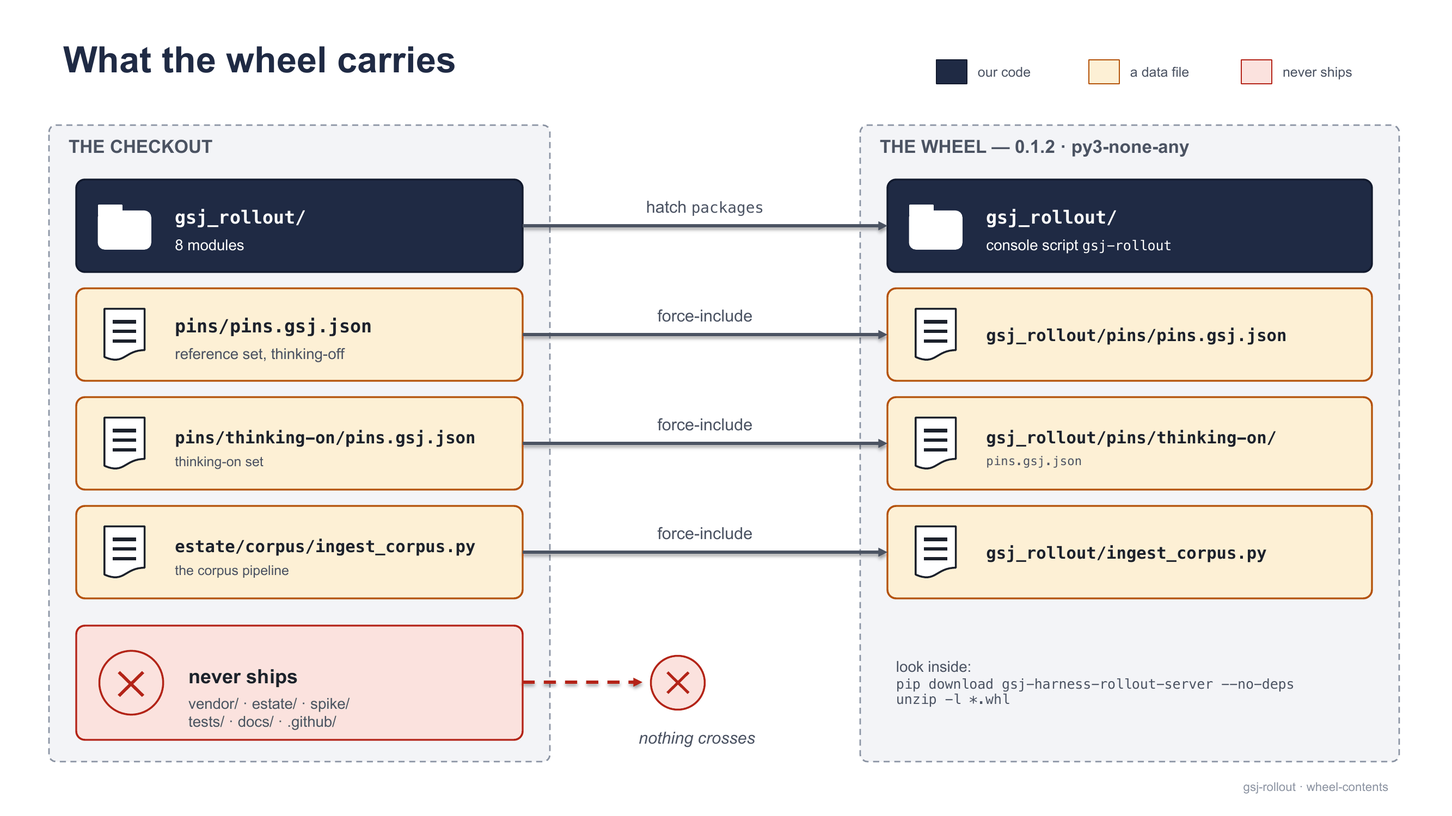
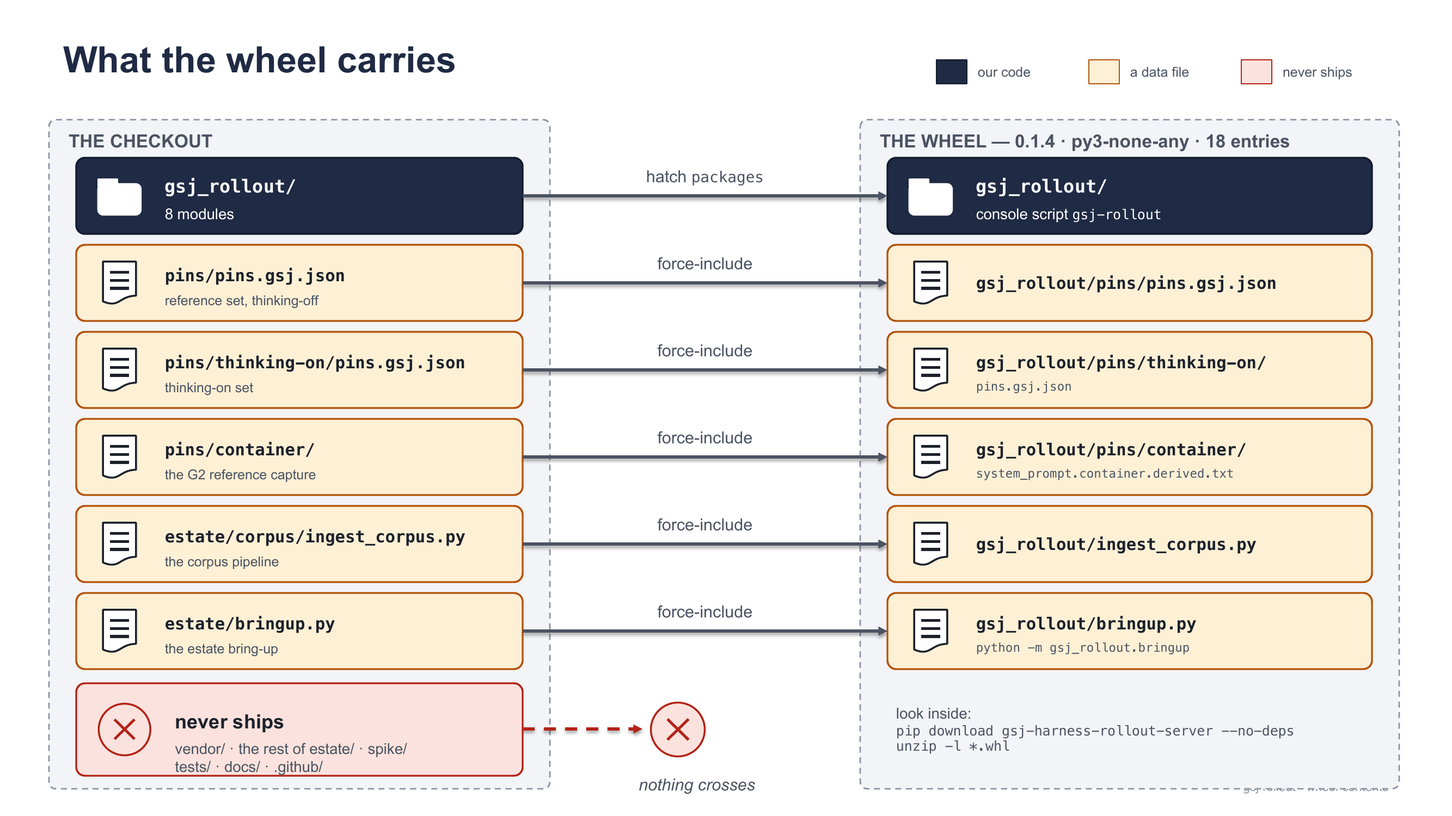
CP-66: the consumer residue

diff --git a/docs/VERDICT.md b/docs/VERDICT.md
@@ -569,7 +569,7 @@ remaining delta from the predecessor's instrument.
 | 37 | **NEW (CP-34)** — the F-45-cured serve printout knows two install shapes (checkout, wheel) but not the third that now exists: inside the `gsj-polar` estate image the `polar` console script is simply on PATH, and the NOTE prints clone-the-repo advice beside two `<checkout>`-placeholder commands that no container user should run. Cosmetic — the demo's compose never shows a stranger this printout (the receiver service runs `serve` non-interactively) — but the printout's whole point is being right about which case you are in | `cli.py` — a third branch: resolved binary on PATH → print the bare `polar serve_rollout -c …` commands | opened CP-34, by the first install shape where the binary is on PATH | the printout being right in all three shapes it can be read from. **[CP-51] CLOSED — COSMETIC**: the demo's compose never shows a stranger this printout, and the third branch would spend 4–6 `cli.py` lines at §3 headroom 1; reopens only on a register row from a container user who read it. `waiting-on: nothing — closed` **[CP-61] REOPENED by the row it asked for** — the demo's F-77: `docker logs gsj-demo-receiver`, where the demo sends a stranger whose Polar leg did not come up, opens with this printout's `<checkout>/vendor/polar/.venv/bin/polar serve_rollout …` block (the receiver runs `gsj-rollout serve` in the `gsj-polar` image, where `polar` is on PATH — exactly the third shape). Still cosmetic in effect (the demo's compose says the block is not for the reader), and still 4–6 `cli.py` lines at §3 headroom 1. `waiting-on: a cli.py allowance — §3 headroom above the 4–6 lines the third branch costs` **[CP-62]** Not touched by row 51 (f)/(g) — the 409 hint and the topology re-render are other lines of `cli.py` that wait on the same allowance; the printout this row is about is unchanged (the cp62 receiver's log opens with it again, from the checkout shape this time — correct there). Unchanged token. **[CP-65] CLOSED — the third branch landed under the allowance it waited on (ADR-0028).** `serve` resolves `shutil.which("polar")` when the vendored venv binary is absent and prints the bare runnable pair (`polar serve_rollout -c …`, `<secret-env>=<secret> polar serve_gateway -c …`) with no `PYTHONPATH`, no `<checkout>`, no NOTE — the estate image's shape (F-77) now reads its own commands; the wheel and unbuilt-venv hints unchanged behind it (their tests re-pinned `which → None`, so they stay deterministic on a host with a PATH `polar`; the pipe test's subprocess PATH pinned empty for the same reason). The branch fires ONLY when the found binary sits beside `sys.executable` — the co-installed shape; a foreign PATH `polar` falls through to the hints (the CP's review demonstrated a stub hijacking the printout; `test_serve_printout_foreign_path_polar_still_hints` pins the discriminator). +7 lines under ADR-0028; `tests/test_cli.py::test_serve_printout_third_shape_bare_polar_on_path` fails with the branch removed. Reaches wheel consumers at the next release. `waiting-on: nothing — closed` |
 | 38 | **NEW (CP-35)** — sampling defaults are the one demo-estate assumption no API probe can verify: pi sends NO sampling parameters (by design), so the engine's generation defaults ARE the sampling policy, and OpenAI-compatible servers expose no endpoint that states them (`/v1/models` carries `max_model_len` but nothing of temperature/top-p; vLLM's `--generation-config` is argv-only). The demo's preflight names the gap out loud with the consequence (unpinned vLLM samples parameterless requests at T=1.0 — the CP-09 F1 lesson) and what to check server-side, but cannot turn it into a PASS/FAIL row; G7's settings hash catches pi-side settings drift, not engine-side sampling. **[CP-36] Confirmed as the control's shape** — on the stranger run's passing preflight the sampling warn was the only non-ok row, read exactly as designed; the README now also carries the reference serve argv with `--generation-config` called out as load-bearing (F-60), which is the stranger-facing half of the attestation this row still owes. **[CP-37] Classified and placed**: the demo's MODEL-SURFACE.md files sampling under "what no probe can check" — a [you]/[estate] value whose only carrier is the serve argv; the residual (a real attestation) is unchanged | engine-side provenance, not a repo change: a serving-stack attestation (the pins walk capturing the served generation_config alongside the tokenizer values, or a vLLM extension surfacing generation defaults over the API) | opened CP-35 (Step 6 — the one endpoint difference the preflight could not close) | a stranger learning their sampling policy from a preflight row instead of from a training run's distribution. **[CP-40] Cross-referenced at last** (audit O5): this row is gap row 22's sibling (misnumbered "gap row 2" until CP-51) — the sampling half of gap row 22's provenance residual, reborn demo-side at CP-35 with no pointer either way until now; gap row 22's [CP-40] note names the shared owner — the first production bring-up. **[CP-51] The recording half exists**: `pins/derive_pins.py` now states the served generation config's sha256 (the file `--generation-config` points at) beside the pins and `--record` writes it into the pins documents' `provenance.engine` (gap row 22 [CP-51]) — so the sampling policy the walk measured is attributable to every archive produced under those pins. Not an attestation: the walk reads the FILE, not the engine's applied defaults, and the demo preflight's WARN row stays the stranger-facing half. **[CP-58] The recording half ran for real on the H200**: `pins/derive_pins.py --record` at the eval estate's serve, before the CP's episode, wrote `provenance.engine` into both pins documents — `generation_config_sha256` `2325da0f…` (the snapshot's file, byte-equal on the box to the `~/gsj-vllm/genconfig/generation_config.json` the engine's `--generation-config` names), beside the served model id, the snapshot revision, the tokenizer blob and the served template sha (gap row 22 [CP-58], field by field). The attestation half is untouched: the walk still reads the FILE, not the engine's applied defaults, and the demo preflight's WARN row stays the stranger-facing half. `waiting-on: the first production bring-up — its own --record at its serve (CP-58's is the eval estate's); an engine-side attestation of applied sampling stays that bring-up's` |
 | 39 | **NEW (CP-35)** — the archive's MESSAGES lose thinking-on reasoning: vLLM's `--reasoning-parser` strips `<think>` from `content` into `reasoning_content`, and Polar's assistant-message capture has a `reasoning` field (different name) that is null in every body measured (153 CP-32 archives + the CP-34/CP-35 episodes). The reasoning survives ONLY in the token arrays, so any message-side consumer (the demo transcript, a future grader reading messages) must decode mask-1 runs with the served model's tokenizer (A-29) — a rendering dependency the archive itself was supposed to spare | vendored Polar, one mapping: capture `reasoning_content` (vLLM's field) into the message's `reasoning` at trace assembly — a carry-patch of the law-4 kind; the demo reader then renders ON transcripts tokenizer-free | opened CP-35 (the Step-1 body reading); invisible before because nothing read the messages of an ON trace until the transcript view existed. **[CP-36] Exercised end-to-end by the stranger run** — P3 confirmed verbatim (per-turn `thinking happened this session but cannot be shown` with the pip-install cure in the message; after installing, the decode resolved through read.py's cache→hub tokenizer chain). The carry-patch stays the durable cure | reasoning readable from the archive alone, no tokenizer required. **[CP-51] FOLDED into A-29** as the documented tokenizer dependency — and corrected: the evidence base has a counter-example on disk, `docs/polar/thinking-on/episode-on.accepted.json` (CP-30, H200) carries `reasoning_content` POPULATED on all three assistant messages, so "null in every body" is false for at least one served vLLM, and which response field the served stack emits was never measured (no vLLM version pin appears in CP-30/32/34/35/36 or `estate/serving/*.sh`). `waiting-on: a measured vLLM response field on the served stack — reopens then as a carry-patch row (vendor/, outside the size law)` |
-| 40 | **NEW (CP-36)** — the estate's images are single-platform where it hurts: `gsj-mcp-service:0.3.0` and `gsj-pi-harness:pi0.83.0-3` publish linux/amd64 only (`gsj-polar` is multi-arch), and an ARM docker REFUSES a manifest list with no matching platform rather than falling back to emulation — the CP-36 stranger's `up` died at the mcp pull and, cured, again at the sandbox pull (F-54, the run's one blocking wall; the sandbox message even misdiagnosed the cause as unreachable ghcr.io). The demo bootstrap now cures it locally — on ARM hosts it pulls both images explicitly `--platform linux/amd64` and says so; measured working: the first MCP embed ran 115 s under emulation, episode wall unaffected (22.5/38.6 s) — but the cure a stranger should get is the pull just working, natively | an operator/publishing op, no repo change here: build arm64 variants and push a multi-arch index under the SAME pinned tags — provenance-sensitive, not a casual buildx: a rebuild today resolves different layers than the measured artifacts, so the publish needs its own build-and-verify pass (the harness image doubly so — its content feeds G2/G3) | opened CP-36 by the first ARM stranger run; invisible before because every prior estate host was amd64 | Apple Silicon strangers getting the demo's one-command promise natively, no emulation asterisk. **[CP-51]** live manifest probe 2026-08-27: `gsj-mcp-service:0.3.0` and `gsj-pi-harness:pi0.83.0-3` still linux/amd64 only, `gsj-polar` multi-arch; no newer tags. The harness image has NO build recipe in this repo (built from the archived predecessor's `sandbox/`), so its republish is a pins-walk-verified rebuild (its content feeds G2/G3), not a casual buildx; the mcp image builds from `estate/mcp-service/Dockerfile` (amd64 by `DOCKER_DEFAULT_PLATFORM`, README:49) and the demo's `polar.Dockerfile:20-21` carries the buildx template. A-28 qualified this CP. `waiting-on: an operator republish of the two images under the same tags — nothing schedules one; a library release does not force it` **[CP-61] The mcp half CLOSED; the harness half stays.** `ghcr.io/mhganainy/gsj-mcp-service:0.4.0` is now a two-platform index: linux/amd64 `846f7d73…` is the local build `6e27f067…` the H200 loaded at CP-58, byte-for-byte; linux/arm64 `f0f36043…` is CP-59's native build `32a78aae…` — composed with `buildx imagetools create` from the two MEASURED images (this row's own provenance warning: no fresh buildx resolving different layers). Verified: anonymous `docker pull` on an arm64 daemon with no `--platform` (F-54's exact failing step) and with `--platform linux/amd64`, an anonymous registry-token manifest fetch listing both platforms, and the demo's bring-up ran the published tag natively (first embed 21.6 s vs ~2 min emulated). `gsj-pi-harness:pi0.83.0-3` is still linux/amd64 only (no build recipe in this repo; its content feeds G2/G3 — the [CP-51] note stands); the demo's `ensure_image` keeps the `--platform linux/amd64` cure for it alone and says so. `waiting-on: a pins-walk-verified republish of gsj-pi-harness under the same tag — nothing schedules one` **[CP-64] CLOSED — the harness half published two-platform under the same tag, the pins-walk-verified way.** The recipe was recovered from the archived predecessor's `sandbox/` (byte-identical at v0.8.0, `git diff v0.8.0 HEAD -- sandbox/` empty; self-contained since its CP-34 — three pin files, `npm ci` off the committed lockfile) and every pinned input is still live (pi-coding-agent 0.83.0 and pi-mcp-extension 1.5.0 on npm with lockfile-equal integrity, `mcp==2.0.0` on PyPI, `node:22.16.0-bookworm-slim` last re-cut 2025-06-11 — before the 2026-08-06 original build). Rebuilt BOTH platforms from it: the amd64 rebuild's `/opt/pi` tree is byte-identical to the published image (41,052 files, one tree digest); the fresh arm64 build differs in exactly the four `@mariozechner/clipboard-*` platform natives, the materialized `.package-lock.json` naming them, and newer `/opt/mcp-venv` transitives (outside the remote-MCP episode path). Proven by the pins with one episode per platform, this row's own standard: on the H200 through the amd64 rebuild (`sk-polar-c2b7498c…`, COMPLETED/stop, G2 `f56e8a6e…` and G3 `a7a7956b…` both ∈ approved, `run_trace_checks` `[]`, docker events tying the session container to the rebuild tag, all three estate tokens 0 occurrences in the trace) and on the arm64 Mac through the arm64 build (`sk-polar-99512d4d…`, same hashes, findings `[]`). Published per CP-61's method — no fresh amd64 bytes: the index was composed with `buildx imagetools create` from the EXISTING measured amd64 child `864dc885…` (byte-unchanged — the H200's frozen load `f7a6d63a…` and every prior trace's provenance stand) plus the fresh arm64 `1dd08d75…` (pushed as `pi0.83.0-3-arm64`); new index digest `1fc083d4…`. Verified anonymously: a credential-less registry-token manifest fetch listing both platforms with the amd64 child unchanged, `docker logout` then `docker pull` on this arm64 daemon with no `--platform` (F-54's exact failing step) → arch arm64, and `--platform linux/amd64` resolving. Residue for the demo's next sitting: `ensure_image`'s amd64 cure for this image is now dead code (harmless — it gates on a missing platform that no longer happens). `waiting-on: nothing — closed` |
+| 40 | **NEW (CP-36)** — the estate's images are single-platform where it hurts: `gsj-mcp-service:0.3.0` and `gsj-pi-harness:pi0.83.0-3` publish linux/amd64 only (`gsj-polar` is multi-arch), and an ARM docker REFUSES a manifest list with no matching platform rather than falling back to emulation — the CP-36 stranger's `up` died at the mcp pull and, cured, again at the sandbox pull (F-54, the run's one blocking wall; the sandbox message even misdiagnosed the cause as unreachable ghcr.io). The demo bootstrap now cures it locally — on ARM hosts it pulls both images explicitly `--platform linux/amd64` and says so; measured working: the first MCP embed ran 115 s under emulation, episode wall unaffected (22.5/38.6 s) — but the cure a stranger should get is the pull just working, natively | an operator/publishing op, no repo change here: build arm64 variants and push a multi-arch index under the SAME pinned tags — provenance-sensitive, not a casual buildx: a rebuild today resolves different layers than the measured artifacts, so the publish needs its own build-and-verify pass (the harness image doubly so — its content feeds G2/G3) | opened CP-36 by the first ARM stranger run; invisible before because every prior estate host was amd64 | Apple Silicon strangers getting the demo's one-command promise natively, no emulation asterisk. **[CP-51]** live manifest probe 2026-08-27: `gsj-mcp-service:0.3.0` and `gsj-pi-harness:pi0.83.0-3` still linux/amd64 only, `gsj-polar` multi-arch; no newer tags. The harness image has NO build recipe in this repo (built from the archived predecessor's `sandbox/`), so its republish is a pins-walk-verified rebuild (its content feeds G2/G3), not a casual buildx; the mcp image builds from `estate/mcp-service/Dockerfile` (amd64 by `DOCKER_DEFAULT_PLATFORM`, README:49) and the demo's `polar.Dockerfile:20-21` carries the buildx template. A-28 qualified this CP. `waiting-on: an operator republish of the two images under the same tags — nothing schedules one; a library release does not force it` **[CP-61] The mcp half CLOSED; the harness half stays.** `ghcr.io/mhganainy/gsj-mcp-service:0.4.0` is now a two-platform index: linux/amd64 `846f7d73…` is the local build `6e27f067…` the H200 loaded at CP-58, byte-for-byte; linux/arm64 `f0f36043…` is CP-59's native build `32a78aae…` — composed with `buildx imagetools create` from the two MEASURED images (this row's own provenance warning: no fresh buildx resolving different layers). Verified: anonymous `docker pull` on an arm64 daemon with no `--platform` (F-54's exact failing step) and with `--platform linux/amd64`, an anonymous registry-token manifest fetch listing both platforms, and the demo's bring-up ran the published tag natively (first embed 21.6 s vs ~2 min emulated). `gsj-pi-harness:pi0.83.0-3` is still linux/amd64 only (no build recipe in this repo; its content feeds G2/G3 — the [CP-51] note stands); the demo's `ensure_image` keeps the `--platform linux/amd64` cure for it alone and says so. `waiting-on: a pins-walk-verified republish of gsj-pi-harness under the same tag — nothing schedules one` **[CP-64] CLOSED — the harness half published two-platform under the same tag, the pins-walk-verified way.** The recipe was recovered from the archived predecessor's `sandbox/` (byte-identical at v0.8.0, `git diff v0.8.0 HEAD -- sandbox/` empty; self-contained since its CP-34 — three pin files, `npm ci` off the committed lockfile) and every pinned input is still live (pi-coding-agent 0.83.0 and pi-mcp-extension 1.5.0 on npm with lockfile-equal integrity, `mcp==2.0.0` on PyPI, `node:22.16.0-bookworm-slim` last re-cut 2025-06-11 — before the 2026-08-06 original build). Rebuilt BOTH platforms from it: the amd64 rebuild's `/opt/pi` tree is byte-identical to the published image (41,052 files, one tree digest); the fresh arm64 build differs in exactly the four `@mariozechner/clipboard-*` platform natives, the materialized `.package-lock.json` naming them, and newer `/opt/mcp-venv` transitives (outside the remote-MCP episode path). Proven by the pins with one episode per platform, this row's own standard: on the H200 through the amd64 rebuild (`sk-polar-c2b7498c…`, COMPLETED/stop, G2 `f56e8a6e…` and G3 `a7a7956b…` both ∈ approved, `run_trace_checks` `[]`, docker events tying the session container to the rebuild tag, all three estate tokens 0 occurrences in the trace) and on the arm64 Mac through the arm64 build (`sk-polar-99512d4d…`, same hashes, findings `[]`). Published per CP-61's method — no fresh amd64 bytes: the index was composed with `buildx imagetools create` from the EXISTING measured amd64 child `864dc885…` (byte-unchanged — the H200's frozen load `f7a6d63a…` and every prior trace's provenance stand) plus the fresh arm64 `1dd08d75…` (pushed as `pi0.83.0-3-arm64`); new index digest `1fc083d4…`. Verified anonymously: a credential-less registry-token manifest fetch listing both platforms with the amd64 child unchanged, `docker logout` then `docker pull` on this arm64 daemon with no `--platform` (F-54's exact failing step) → arch arm64, and `--platform linux/amd64` resolving. Residue for the demo's next sitting: `ensure_image`'s amd64 cure for this image is now dead code (harmless — it gates on a missing platform that no longer happens). **[CP-66] the residue taken**: the demo retired the cure (`amd64_only`, the fallback, `daemon_arch` — dead since this row closed), its README's emulation paragraph rewritten as history, F-54's register cell closed-in-status; proven by a fresh-wheel-venv arm64 `bootstrap.py up` whose plain pull (no `--platform`) resolved this tag native arm64, 40 s to a standing estate. `waiting-on: nothing — closed` |
 | 41 | **NEW (CP-37)** — the harness's Qwen-bound constants, enumerated while making the model surface explicit, all library-frozen this CP: `pi_harness.py` hardcodes `thinkingFormat: "qwen-chat-template"` and `supportsReasoningEffort: false` in the models.json it renders (a family needing a DIFFERENT thinking wire format cannot be expressed without a library change); the `provider/model` split in `pi_harness.py:104` looks like a served-name constraint but is NOT one — `config.py:408` prepends `estate.provider` (default `gsj`) itself, so `model_name` is always slashed via the one YAML and the raise is unreachable there (verified under CP-37's adversarial review, which killed a demo guard drafted on the opposite premise); it guards only direct/foreign constructions of the harness. And a non-off `thinking` on a family without the mode is a measured wire no-op (`enable_thinking` is unused jinja context on Llama templates) while the archive still stamps `.thinking-on` — a provenance label claiming a mode the model lacks. Each is named with what it would need; none bit yet. **[CP-38] still none bit, now by measurement rather than absence**: the first foreign episode ran thinking-off by design (the stamp half deliberately unexercised — MODEL-SURFACE tells modeless families to keep `off`), the wire-no-op half was measured LIVE (the derivation's off/medium mode pair returns byte-identical tails and EOT against the served Llama-3.1 endpoint), and the served-name mechanics worked end to end (`model_requested == model_used ==` the served name — audit W8, struck at CP-51: the exercised name was `unsloth/Meta-Llama-3.1-8B-Instruct`, slashed; the slash-free path was NOT exercised, and CP-38's report never claimed it) | `pi_harness.py` (a thinkingFormat/compat surface in the one YAML; a name-shape relaxation) — a §1-lift library change, priced only when a real family needs it | opened CP-37 by the Step-1 enumeration; invisible before because every estate served Qwen | a non-Qwen family running with its own thinking format, and provenance stamps that never claim a mode the model lacks. `waiting-on: a served family that needs a thinking wire format other than qwen-chat-template, or a modeless family stamped .thinking-on — a §1-lift library change priced then, with the §3 budget decision` |
 | 42 | **NEW (CP-37)** — ADR-0024's per-mode pin geometry is Qwen-measured and does not transfer blind: its two-direction mode assertion exists because Qwen's off-tail (7 ids, empty think block) and on-tail (3 ids) are non-suffix siblings. On a family with NO thinking mode both modes derive the SAME tail (measured: both Llama-3.1 templates AND Qwen2.5-Coder render byte-identically under enable_thinking true/false, so the derived tails are identical per mode) — G6 degrades to template integrity and the mode assertion vanishes, correctly but silently; a family with a DIFFERENT hybrid-reasoning geometry (always-think, or an off-signature that is not an empty block) needs its own CP-28-style measurement before per-mode pins mean anything there. **[CP-38] the no-mode half is MEASURED LIVE**: both modes derive the same tail/EOT against the served Llama-3.1 endpoint, and the accepted foreign episode's G6 held as pure template integrity — the degradation is real, correct, and silent exactly as the row predicted. The different-geometry half (a real non-Qwen hybrid reasoner) remains theoretical | a measurement CP against a real hybrid-reasoning non-Qwen family (the CP-28 shape: two collections, the tail geometry, the pin decision), spec §G6 [CP-37] carries the degradation note | opened CP-37; the spec's G6 subject was Qwen's empty think block since CP-23 | per-mode pins whose mode assertion is real on whatever family the estate serves. `waiting-on: a hybrid-reasoning non-Qwen family served on an estate — a CP-28-shaped measurement CP then (two collections, the tail geometry, a pin decision)` |
 | 43 | **NEW (CP-38)** — the two-terminator family geometry, measured on the first live foreign episode: Llama-3.1 under tools SAMPLES `<\|eom_id\|>` (128008) as its tool-call stop while its template re-renders those turns closed with `<\|eot_id\|>` (128009). Nothing in `gsj_rollout/` needed to change — the vendored merge is canonical-vs-canonical (renders against renders; the probe's prefix-extension row IS the chain-merge condition, and CP-37's "sampled-vs-rerendered identity is an unprobed extra condition" claim is withdrawn in MODEL-SURFACE), the sampled stop rides the stream as mask-1 data followed by the canonical close at mask-0, and the two defenses already fail closed (`A15:end_of_turn_token_id_not_configured` at the source builder; `G7:chains_truncated` at the receiver). The named residuals: (a) vendored Polar's EOT auto-detect picks the last SAMPLED token of the first stopped completion — on a two-terminator family that is the stop token, which never appears in the render, so a direct Polar consumer relying on auto-detect truncates every chain to its first turn (the gsj builder never relies on it, by A-15); (b) trainers consuming such streams should know the mask-0 close is canonical, not sampled — the trace teaches the model's real protocol (`<\|eom_id\|>`) while the context stream stays template-canonical | nothing, today — a characterization row: the demo path derives and configures the render-side closer; price a Polar auto-detect fix only if a consumer without the gsj builder materializes | opened CP-38 by the first family whose stop id differs from its template's closer | a second two-terminator family (or a trainer consuming these streams) confirming the geometry generalizes. **[CP-51] CLOSED — RECORDED**: a characterization, nothing waits on this repo (A-15 and G7 fail closed; the CP-38 measurement is now annotated on A-15). `waiting-on: nothing — closed; a second two-terminator family or a consuming trainer reopens it as a new row` |

diff --git a/docs/CHARTER.md b/docs/CHARTER.md
@@ -2544,6 +2544,8 @@ pins, no recipe.**
 **[CP-65] The cli.py allowance — rows 51 (f)/(g) and 37 CLOSED under ADR-0028; the size law re-set to the landed size, 2,016, and machine-checked; row 53 NEW (the untracked-lift echoes). Touched here: `gsj_rollout/cli.py` (241 → 257 — the CP's only source change), `tests/test_cli.py` (+5 tests, the two install-shape tests re-pinned hermetic (`which → None`), the pipe test's subprocess PATH pinned empty, the 500-path counter-assert; root suite 164 → 169), `docs/CHARTER.md` (§1, §3 preamble + [CP-65], §8 rule 2, §9, this paragraph), `docs/VERDICT.md` (rows 37, 51, 53), `docs/guide/{README,how-it-works}.md` (the 2,000 echoes), `CLAUDE.md` (law 2's echo — the one edit outside the freeze-lift, ADR-0012's own echo duty, declared in the report). NOT touched: `checks.py` (528/528, the ADR-0021 tripwire green), every other `gsj_rollout/` module, `vendor/`, `estate/`, `pins/`, `.github/`, `README.md`, the consumer repos — the DoD diff on the frozen list EMPTY; the tracked 2,000 echoes OUTSIDE the lift (`README.md:6`, `.github/workflows/ci.yml:27`) are row 53's, parked with a token instead of fixed out-of-lift. **Priced at the file, then re-priced after the CP's own adversarial review** (six lenses, two refuters per finding, 13 confirmed — every one closed in-CP): (f) **+2** — CP-62's "in-place, no line" priced an UNCONDITIONAL string edit, which would put 409 advice on every exit-3 transport error against the CP-27 message standard; the honest conditional (`exc.response.status_code == 409`) needs its own binding, the hint prints ONLY on a 409 and lands on the `gsj-rollout:`-prefixed line BEFORE `str(exc)` (httpx's status str is two lines; a cure after its MDN link is a cure nobody greps), the 500 path asserted hint-free. (g) **+7** — `serve` renders to a string and the guard NEVER RAISES: a bytes compare under EAFP (an undecodable, unreadable, or mid-read-vanished file counts as different and re-renders — the review reproduced the naive text-read dying on non-UTF-8 where pre-CP-65 code overwrote and proceeded), byte-identical content left untouched (a receiver restart is a no-op on the shared file: same inode, same mtime), a real re-render lands via a PID-UNIQUE tmp + `os.replace` (the review demonstrated two concurrent serves cross-truncating a shared fixed `.tmp` into a 0-byte topology — the exact wound the row names), no residue. 37 **+7** — `shutil.which("polar")` when the vendored venv binary is absent, taken ONLY when the found binary sits beside `sys.executable` (the co-installed estate-image shape, F-77: bare runnable pair, no PYTHONPATH, no `<checkout>`, no NOTE); a FOREIGN PATH polar falls through to the F-45/REVENDOR hints (the review demonstrated a stub polar hijacking the printout and suppressing the actionable hint); `import shutil` counted. Total **+16**. **The budget decision**: bank was unavailable (the lift confines it to `cli.py`, banked to pointer form since CP-33 — what remains is the register-cited F-21/F-20 and F-45 comments), closing 37 again would re-litigate its own fired reopen condition, and "take only what fits" takes nothing at headroom 0 — so the law moved, ADR-0021's way: **ADR-0028**, 2,016 exactly, zero headroom by design, `tests/test_cli.py::test_size_law_census_is_machine_checked` asserting the census as an equality in both directions (growth is a stop-and-justify on every push; a shrink lowers the law in the same change; the glob is `[!.]*.py` — `wc -l`'s shell universe, so an editor's dot-lockfile cannot desync the check from the law's own command). Census: 18 + 159 builder + 528 checks + 257 cli + 123 client + 414 config + 322 pi_harness + 195 receiver = **2,016**. **One citation moved, disclosed**: the examples register's `cli.py:43` (the F-21/F-20 comment) now sits at `cli.py:51` — insertions ABOVE it; the comment is byte-untouched and no cited line was banked (the CP-50 footnote clause covers the stale number). Each change carries a test that fails with it removed — the full-suite counter-proof: `git stash push -- gsj_rollout/cli.py` → `pytest tests/test_cli.py` **7 red** (the 5 new tests fail, and the two re-pinned shape tests error on the stashed file's missing `cli.shutil`) / restored → 23 pass, the root suite 169. Rule-9 scan (the token spelled colon-free here, per the CP-64 precedent): fired — **37** and **51** (both waiting-on a cli.py allowance — the allowance is ADR-0028; both closed); rows 22 (no production bring-up), 47 (no mcp cut) did not fire; row 26 per the push's run in the report. Push: this repo's `main` at this CP's commit — the report carries the hash and the CI run. Tally unchanged: **21 PARITY · 7 DROPPED · 2 GAP · 1 BETTER · 1 TBD**.
 
 
+**[CP-66] The consumer residue — no wishlist row moves (40 was already closed; its recorded residue is taken and annotated in place); both consumer registers brought current and F-54's arc closed consumer-side. Touched here: `docs/VERDICT.md` (row 40's [CP-66] postscript), `docs/guide/trainer-guide.md` (the wheel-contents alt text — the drift-confession clause out, the six crossings in), `docs/guide/img/wheel-contents.png` (re-rendered at 0.1.4 from the outside-the-repo deck: six crossings — the G2 capture and `bringup.py` join 0.1.2's four — lane header `0.1.4 · py3-none-any · 18 entries`, never-ships now "the rest of estate/"), `docs/guide/img/two-roles.png` (the same deck visit's one other SHIPPED 0.1.2 residue: the pip tile now `wheel-only 0.1.4` — a named extent drift, same class as the mandate), this file (this paragraph). NOT touched: `gsj_rollout/` (2,016/2,016), `vendor/`, `estate/`, `pins/`, `tests/`, `.github/` — the DoD diff on the frozen list EMPTY; the root suite 169.** **The examples repo** (its own CP-66 commit): the sweep found fourteen drifted current-state claims, all fixed — `README.md:5` "PyPI 0.1.2" → 0.1.4 (CP-60's flag, three releases stale), the FINDINGS trailer F-54–F-69 / next-F-70 → F-54–F-78 / next-F-79 (and the README's range echo), seven "0.1.2 as of library CP-34" parentheticals (README, RUNBOOK ×2, install.sh, all three requirements headers) → "0.1.4 as of library CP-63", the RUNBOOK's library-suite counts 161/58/89 → 169/67/107 (the vendored-Polar 175/3 stands — A-8's CP-22 re-measurement), its dist/-pair "today" example reworked dated-historical (the checkout's `dist/` holds one wheel, 0.1.4), and slime_bridge's "# 14 tests" → 19 (measured: 19 passed, 0.20 s). Classified and left, CP-49's footnote clause: the bridge ADRs' `staging/serving/` citations (that repo's CP-50 commit says they keep their historical citations), every ">=0.1.x" floor line (they resolve, not lie), the pins README, `config.yaml`'s harness tag — and no wheel-entry-count or image-platform claim exists anywhere in that repo. **The demo repo** (its own CP-66 commit): row 40's residue executed — `ensure_image` loses `amd64_only` and the `--platform linux/amd64` fallback, and `daemon_arch()` + `import platform` go with it (the fallback was their only caller); the die() advisory tail ("a `no matching manifest` error would mean the registry lost this image's variant for your platform — report it") is now unconditional, so the one scenario the dead cure could still have caught — a registry serving the index but not a child, F-78's own shape at codeberg — now reports loudly instead of silently emulating, which is the better behaviour and the reason retirement beats repurposing; the README's Platform fact 1 rewritten — all four images native, `gsj-pi-harness` two-platform since CP-64, the refusal-then-explicit-pull story kept as history "for anyone reading an old trace" (CP-36's measurement stays; F-54's arc closes) — and the quickstart's ARM line follows; FINDINGS: the header and F-54's status cell record the sandbox half CLOSED at CP-64 and the cure retired, F-74's cell records 51 (d) cured at CP-62 and row 51 closed in full at CP-65, F-77's cell records wishlist 37 re-closed at CP-65 (rides the next release — 0.1.4 predates it), F-78's expired "until then" tail reworked (0.1.4 shipped at CP-63; the mirror recipe is history). The timings bullet stays byte-untouched — anchored to the CP-61 run. **Measured before claimed**: a fresh venv on PyPI's own 0.1.4 wheel (the demo REFUSES a source-checkout library — the stranger shape is the only shape), the local harness image removed first so the pull path had to fire, then `./bootstrap.py up` on this arm64 daemon — the plain pull with no `--platform` and no "arm64 —" line anywhere in the log resolved `pi0.83.0-3` native arm64 (id `1fc083d4…`, the CP-64 index), the estate stood in 40.0 s, `down` clean after. **The deck** (outside every repo; not a git repo — no push exists for it): the wheel-contents slide redrawn, and the visit's in-deck residue fixed — install-paths' pip tile and home's wheel tile 0.1.2 → 0.1.4, release-gate's "five must-ship paths" → seven (CP-60's assertion tuple), repo-map's subs 1,999 lines / 161 tests → 2,016 / 169; repo-map's `spike/` tile is PREMATURE, not wrong — `spike/` is still on disk, no `spike-cp06` tag exists, the off-tree proposal never ran, and repo-map renders into nothing today. Rule-9 scan (the token spelled colon-free here, the CP-64 precedent): 74 lines by the DoD's grep over `docs/` on disk; fired — NONE (row 40 closed at CP-64 — taking its recorded residue is an annotation, not a token event; rows 22, 47, 50, 53 wait on events this CP is not; row 26 per the push's run in the report). Push: all three repos' `main` at their CP-66 commits — the report carries the hashes and the CI run. Tally unchanged: **21 PARITY · 7 DROPPED · 2 GAP · 1 BETTER · 1 TBD**.
+
 | # | capability | gsj-envloader | here | status | notes |
 | --- | --- | --- | --- | --- | --- |
 | 1 | corpus contract | `docs/corpus-contract.md` — the normative corpus document | moved at CP-01, byte-identical (zero library references, measured); **v2 since CP-14** | PARITY | landed CP-01 (ADR-0002). **[CP-14] The first deliberate divergence from the predecessor's document (ADR-0015)**: contract v2 makes the train/eval split a directory property (`train/cases/`, `eval/cases/`), retires `eval_case_ids` with a validator rejection naming the migration, and adds the one-case-one-split invariant (rule 5) plus root strictness. The predecessor's corpus stays readable by ITS pipeline (law 3); this repo's pipeline reads only v2 trees, and a v1 tree fails validate with the migration spelled out. PARITY stands on the capability — a normative contract with a strict validator — now with this repo as the document's owner rather than its custodian |

diff --git a/docs/guide/trainer-guide.md b/docs/guide/trainer-guide.md
@@ -8,7 +8,7 @@ Everything the trainer side needs: install the wheel, collect a first validated 
 
 `pip install gsj-harness-rollout-server` — version **0.1.4**, Python **≥ 3.12**, wheel-only and `py3-none-any`. Three dependencies: `pydantic`, `httpx`, `pyyaml`; `import gsj_rollout` never imports `polar` (the server-side modules `pi_harness`, `builder`, `receiver`, `cli` stay off the import surface), and `__all__` is `['RolloutClient', 'Trace', 'checks', 'load_config', 'RunConfig', '__version__']`. The `gsj-rollout` console script installs too: `submit` works from the wheel against a running server; `serve` needs a checkout.
 
-![Paths cross from the checkout into the wheel — the gsj_rollout package, two pins files, the G2 capture, ingest_corpus.py, bringup.py — and a red never-ships row (vendor, the rest of estate, spike, tests, docs, .github) crosses nothing. The render still shows 0.1.2's four crossings: the deck it comes from lives outside the repo](img/wheel-contents.png)
+![Six paths cross from the checkout into the wheel, rendered at 0.1.4 (18 entries) — the gsj_rollout package via hatch packages, then five force-includes: both pins files, the G2 capture, ingest_corpus.py, bringup.py — and a red never-ships row (vendor, the rest of estate, spike, tests, docs, .github) crosses nothing](img/wheel-contents.png)
 
 <sub>What `pip install` delivers: the package plus five force-included files — three data files (both pins sets and the G2 reference capture under `gsj_rollout/pins/`) and two modules (`gsj_rollout.ingest_corpus`, `gsj_rollout.bringup` — the corpus pipeline and the estate bring-up, whose homes stay `estate/`); nothing else in the checkout ever ships.</sub>
 
